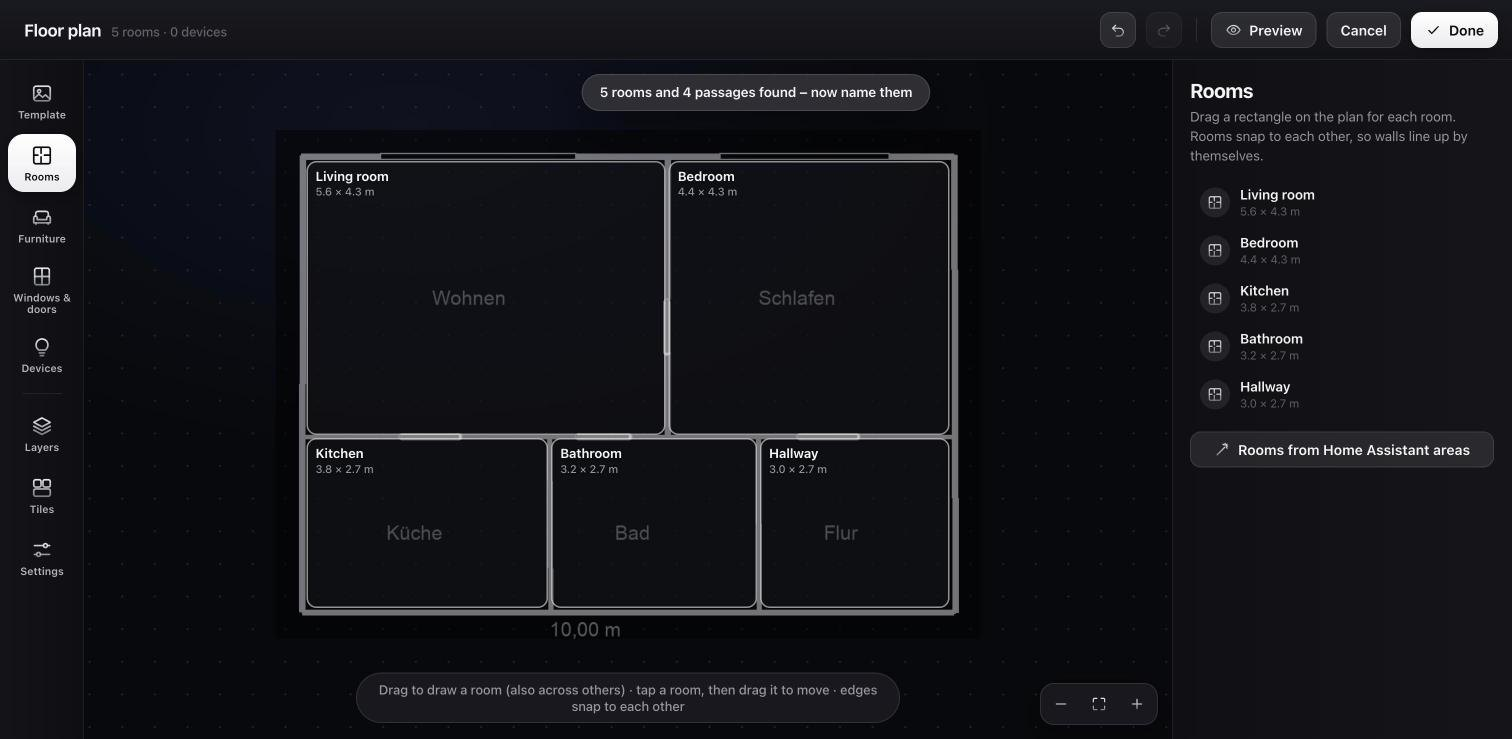
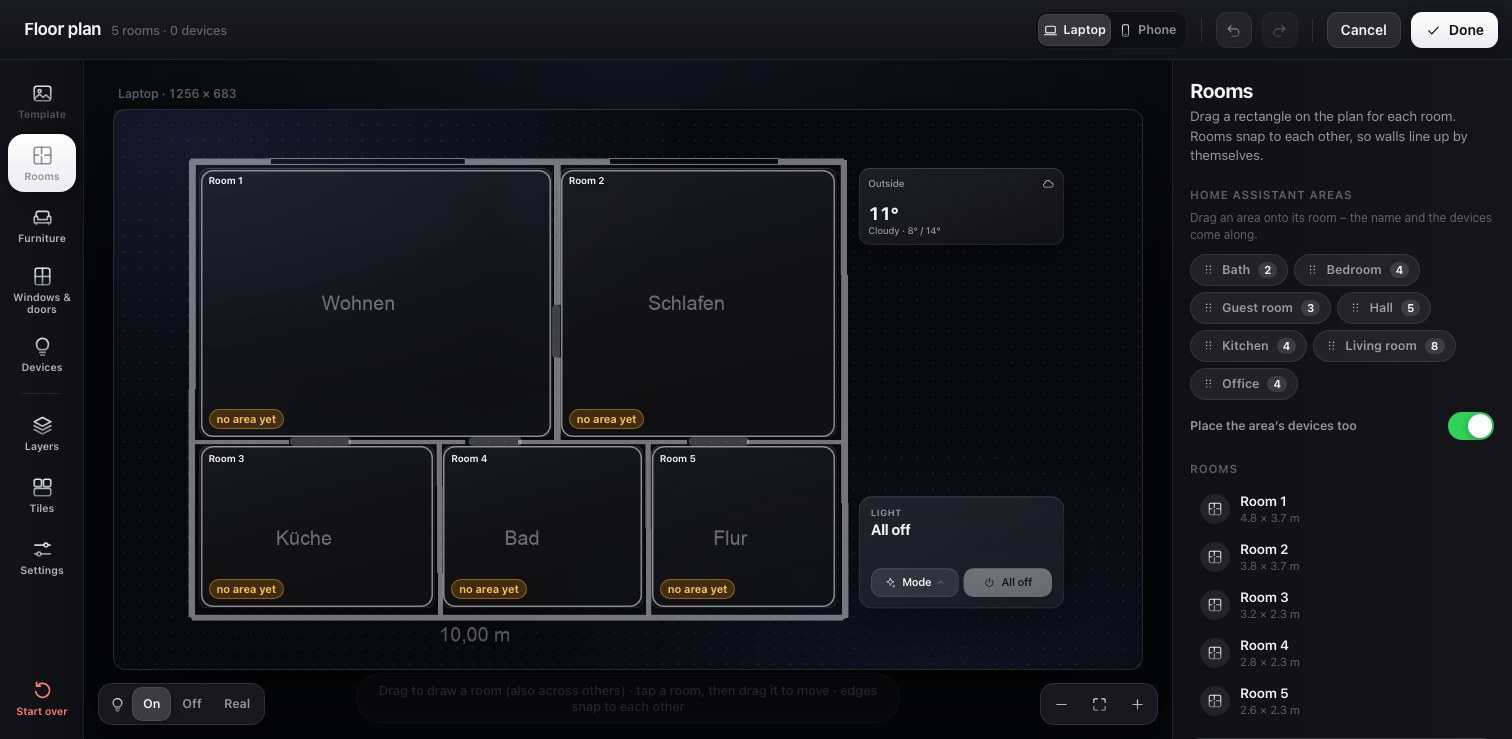
Editor: start over stays visible on phones, demo labels, new editor screenshot

diff --git a/demo/hass.js b/demo/hass.js
@@ -37,6 +37,9 @@ window.GFC_HASS = (SCENE = 'evening', LANG = 'en', onChange = () => {}) => {
   light('light.hallway_spot_3', 'Spot 3', ['brightness'], ev, { brightness: 120 }, 'hallway');
   light('light.bathroom_mirror', N('Mirror light', 'Spiegellicht'), ['color_temp'], false, {}, 'bathroom');
   light('light.guest_room_lamp', N('Reading lamp', 'Leselampe'), ['brightness'], false, {}, 'guest_room');
+  // a few labels (the editor can sort devices by label)
+  for (const id of ['light.living_room_tv_strip', 'light.kitchen_counter', 'light.living_room_floor_lamp']) reg(id, { labels: ['ambient'] });
+  for (const id of ['light.bedroom_bedside', 'light.hallway_spot_1', 'light.bathroom_mirror']) reg(id, { labels: ['night_light'] });
   set('input_number.hallway_night_brightness', 20, { friendly_name: N('Night brightness', 'Nachthelligkeit'), min: 5, max: 100, step: 5, unit_of_measurement: '%', mode: 'slider' });
   reg('input_number.hallway_night_brightness', { area_id: 'hallway' });
 
@@ -242,7 +245,7 @@ window.GFC_HASS = (SCENE = 'evening', LANG = 'en', onChange = () => {}) => {
     locale: { language: LANG === 'de' ? 'de' : 'en', number_format: 'language', time_format: 'language' },
     callService,
     callWS: (msg) => {
-      if (msg.type === 'config/label_registry/list') return Promise.resolve([{ label_id: 'dashboard_mode', name: 'Dashboard mode' }]);
+      if (msg.type === 'config/label_registry/list') return Promise.resolve([{ label_id: 'dashboard_mode', name: 'Dashboard mode' }, { label_id: 'ambient', name: N('Ambient light', 'Stimmungslicht') }, { label_id: 'night_light', name: N('Night light', 'Nachtlicht') }]);
       if (msg.type === 'call_service' && msg.domain === 'roborock') {
         const rooms = Object.fromEntries(Object.values(AREAS).map((a, i) => [String(16 + i), a.name]));
         return Promise.resolve({ response: { [`vacuum.${V}`]: { maps: [{ flag: 0, name: 'Home', rooms }] } } });

diff --git a/dist/glass-floorplan-card.js b/dist/glass-floorplan-card.js
@@ -4903,7 +4903,7 @@ dialog.ed[open] { display: block; }
   .ehint { display: none; }
   .eview button span, .elight .lbl { display: none; }
   .eview button { padding: 0 9px; }
-  .erail .ereset { margin-top: 0; margin-left: auto; }
+  .erail .ereset { margin-top: 0; margin-left: auto; position: sticky; right: -8px; z-index: 1; background: linear-gradient(90deg, rgba(20, 20, 26, 0), rgb(20, 20, 26) 24%); border-radius: 0; padding: 7px 8px 6px 14px; width: 86px; margin-right: -8px; }
 }
 `;
 
@@ -5258,7 +5258,7 @@ class GfcEditor extends HTMLElement {
     if (!r.width) return;
     if (this._fix) { this._fix = null; this._syncLive(); }
     const scr = this._screen(), H = this._map?.H || scr.h, narrow = r.width < 600;
-    const pad = narrow ? 10 : 30, top = narrow ? 10 : 46, bottom = narrow ? 52 : 66;
+    const pad = narrow ? 10 : 30, top = narrow ? 14 : 46, bottom = narrow ? 64 : 66;
     const k = clamp(Math.min((r.width - 2 * pad) / scr.w, (r.height - top - bottom) / H), 0.08, 1.4);
     this._f = { k, ox: (r.width - scr.w * k) / 2, oy: top + Math.max(0, (r.height - top - bottom - H * k) / 2) };
   }

diff --git a/src/21-editor.js b/src/21-editor.js
@@ -349,7 +349,7 @@ class GfcEditor extends HTMLElement {
     if (!r.width) return;
     if (this._fix) { this._fix = null; this._syncLive(); }
     const scr = this._screen(), H = this._map?.H || scr.h, narrow = r.width < 600;
-    const pad = narrow ? 10 : 30, top = narrow ? 10 : 46, bottom = narrow ? 52 : 66;
+    const pad = narrow ? 10 : 30, top = narrow ? 14 : 46, bottom = narrow ? 64 : 66;
     const k = clamp(Math.min((r.width - 2 * pad) / scr.w, (r.height - top - bottom) / H), 0.08, 1.4);
     this._f = { k, ox: (r.width - scr.w * k) / 2, oy: top + Math.max(0, (r.height - top - bottom - H * k) / 2) };
   }

diff --git a/src/20-editor-styles.js b/src/20-editor-styles.js
@@ -270,6 +270,6 @@ dialog.ed[open] { display: block; }
   .ehint { display: none; }
   .eview button span, .elight .lbl { display: none; }
   .eview button { padding: 0 9px; }
-  .erail .ereset { margin-top: 0; margin-left: auto; }
+  .erail .ereset { margin-top: 0; margin-left: auto; position: sticky; right: -8px; z-index: 1; background: linear-gradient(90deg, rgba(20, 20, 26, 0), rgb(20, 20, 26) 24%); border-radius: 0; padding: 7px 8px 6px 14px; width: 86px; margin-right: -8px; }
 }
 `;
